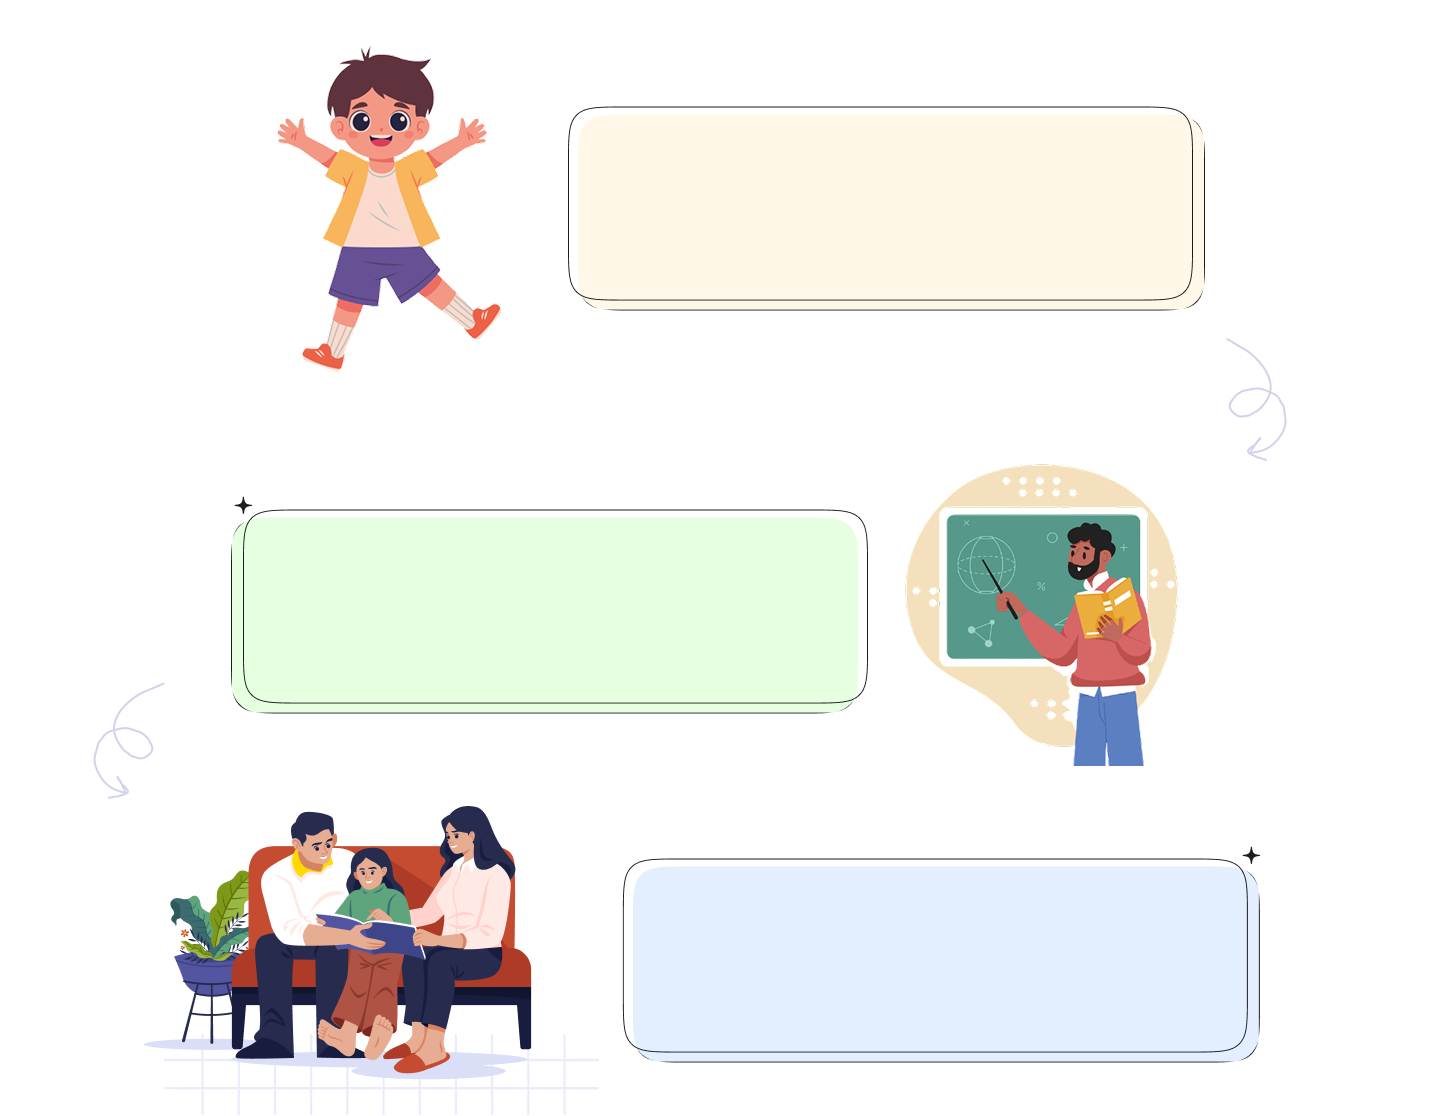
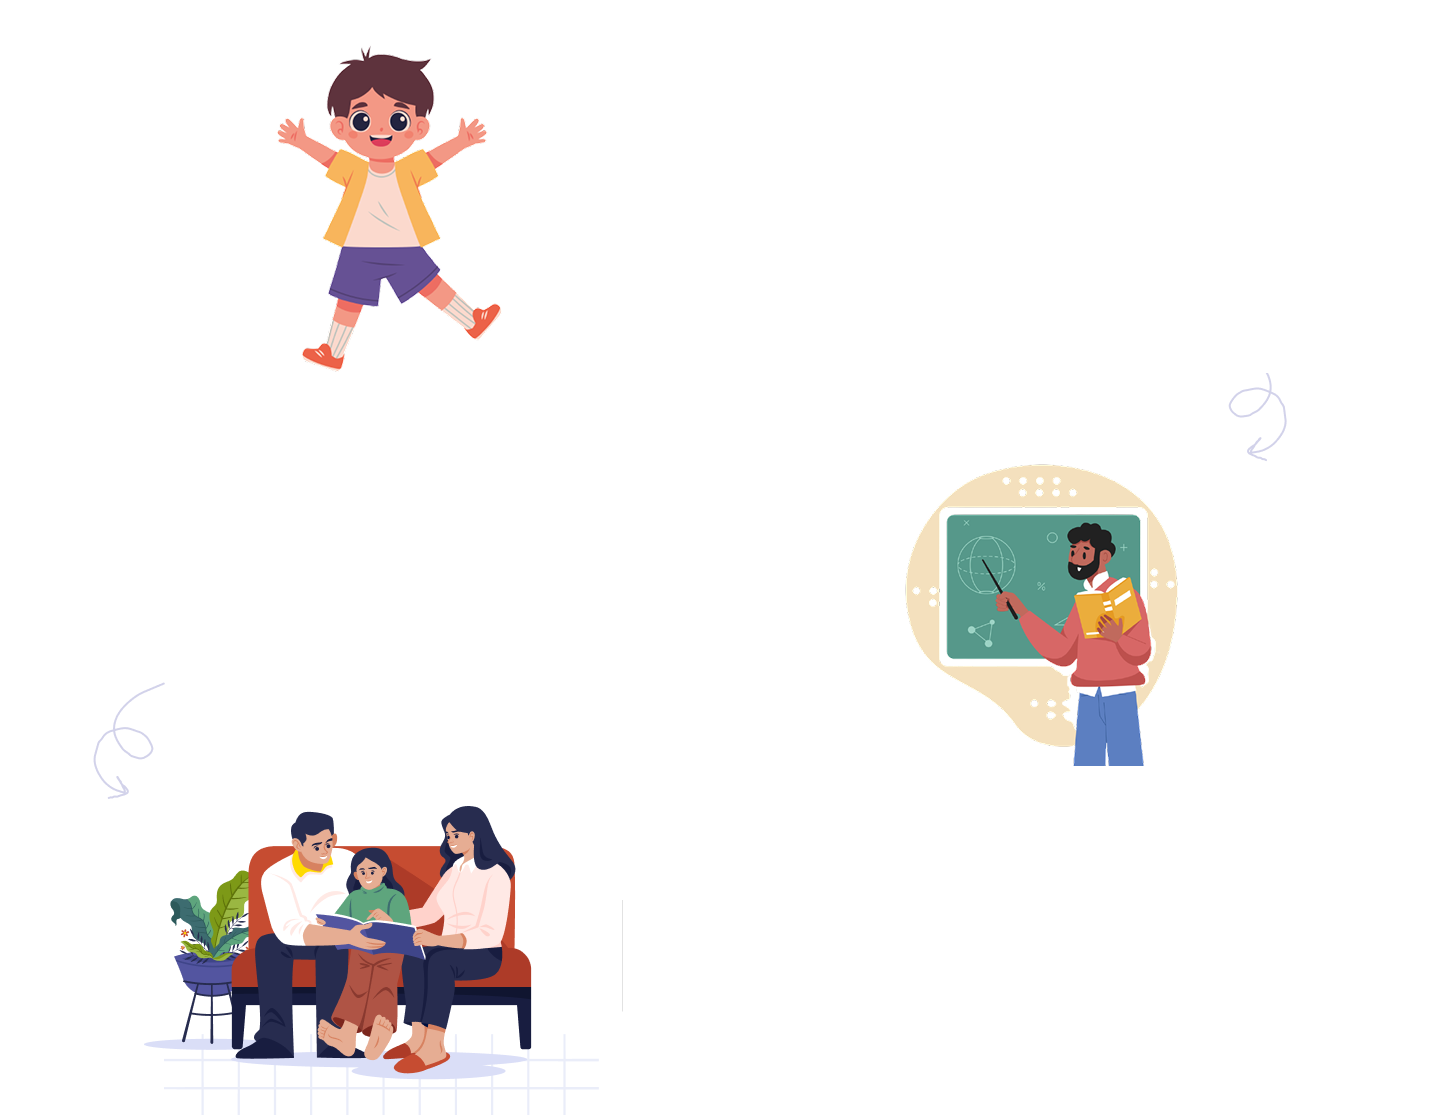
Vision section

Changed region(s): [[0.4375, 0.7616, 0.875, 0.9749], [0.1562, 0.457, 0.5938, 0.6398]]

diff --git a/src/components/about/AboutVisionSection.tsx b/src/components/about/AboutVisionSection.tsx
@@ -1,68 +1,122 @@
 import Image from 'next/image';
-import cloud from '../../assets/about/clouds (very light color).png';
-import swirl from '../../assets/about/spiral-arrow.svg';
+import cloud from '@/assets/about/clouds (very light color).png';
+import chat1 from '@/assets/about/chat1.png';
+import chat2 from '@/assets/about/chat2.png';
+import chat3 from '@/assets/about/chat3.png';
+import sparkle from '@/assets/about/sparkle.svg';
 
 export default function AboutVisionSection() {
   return (
-    <section className="relative py-20 px-4 bg-white overflow-hidden">
-      {/* Background clouds */}
-      <div className="absolute left-0 top-0 z-0 opacity-20">
-        <Image src={cloud} alt="Clouds" width={200} height={120} />
+    <section className="relative py-10 px-0 bg-white overflow-visible mb-30">
+      {/* Background clouds - full cover */}
+      <div className="absolute inset-0 z-0  ">
+        <Image
+          src={cloud}
+          alt="Clouds"
+          width={1920}
+          height={1080}
+          className="w-[110vw] h-full -translate-x-[5vw] !max-w-none"
+        />
       </div>
-      <div className="absolute right-0 top-0 z-0 opacity-20">
-        <Image src={cloud} alt="Clouds" width={200} height={120} />
-      </div>
-      {/* Swirl */}
-      <div className="absolute left-8 bottom-8 z-0 opacity-30">
-        <Image src={swirl} alt="Swirl" width={60} height={60} />
-      </div>
-      {/* Heading */}
-      <h2 className="text-[48px] font-bold text-[#1A1A1A] text-center mb-12 leading-[48px] tracking-wide">Our Vision</h2>
-      {/* Vision cards */}
-      <div className="max-w-7xl mx-auto space-y-12">
-        {/* First card */}
-        <div className="w-[1152px] mx-auto rounded-tl-xl rounded-tr-[200px] rounded-bl-xl rounded-br-[200px] shadow-[6px_6px_0px_0px_rgba(212,227,255,1.00)] bg-white flex justify-center items-center gap-6 p-8">
-          <div className="w-80 h-96 bg-gray-200 rounded-lg flex items-center justify-center">
-            <span className="text-4xl">🧒</span>
-          </div>
-          <div className="w-[637px] h-52 relative">
-            <div className="w-[627px] h-48 left-[10px] top-[8px] absolute bg-yellow-50 rounded-[28.28px] border-r border-b border-zinc-900" />
-            <div className="w-[625px] h-48 left-0 top-0 absolute rounded-[28.28px] border border-zinc-900" />
-            <div className="w-[572px] left-[26px] top-[31px] absolute flex flex-col justify-center items-center gap-1.5">
-              <div className="text-center text-[#1A1A1A] text-[30px] font-normal leading-[40px]">
-                Every child has access to high-quality, engaging learning—no matter their background.
+      {/* Content with higher z-index */}
+      <div className="relative z-10">
+        {/* Heading */}
+        <h2 className="text-[#1A1A1A] text-center text-[44px] font-graphie font-semibold font-weight-700 leading-[44px] tracking-[0.48px] mb-12">
+          Our Vision
+        </h2>
+
+        {/* Flexbox layout with 3 rows */}
+        <div className="max-w-7xl mx-auto space-y-12 relative">
+
+          {/* First row - Picture then Text */}
+          <div className="flex items-center justify-center gap-4">
+            <div className="w-80 h-80 flex items-center justify-center">
+              <Image
+                src={chat1}
+                alt="Chat 1"
+                width={290}
+                height={290}
+                className="object-contain"
+              />
+            </div>
+            <div className="w-[581px] h-[180px] flex-shrink-0 relative">
+              <div className="w-[572px] h-[173px] left-[9px] top-[7px] absolute bg-[#FFF7E7] rounded-[26px] border-r-[0.25px] border-b-[0.25px] border-zinc-900" />
+              <div className="w-[570px] h-[173px] left-0 top-0 absolute rounded-[26px] border border-zinc-900" />
+              <div className="w-[521px] left-[24px] top-[29px] absolute flex flex-col justify-center items-center gap-1.5">
+                <div className="text-center text-[#1A1A1A] text-[30px] font-graphie font-normal font-weight-400 leading-[42px]">
+                  Every child has access to high-quality, engaging learning—no
+                  matter their background.
+                </div>
               </div>
+              {/* Sparkle - top right for picture-text format */}
+              <div className="absolute -top-3 -right-3">
+                <Image src={sparkle} alt="Sparkle" width={26} height={26} />
+              </div>
+              {/* Spiral arrow - right of first text container */}
+                <div className="absolute -right-16 top-1/2 transform -translate-y-1/2 translate-y-[150px]">
+                  <svg width="89" height="107" viewBox="0 0 89 107" fill="none" xmlns="http://www.w3.org/2000/svg" style={{ transform: 'scaleX(-1) rotate(-30deg)' }}>
+                    <path d="M86.5004 2.76347C73 5.26367 73.5004 5.2632 65.5001 6.76391C57.4999 8.26461 48.5234 12.8589 42.0487 17.544C33.1281 23.9991 26.2776 33.8949 28.3662 45.3539C29.2029 49.9442 30.7042 53.5045 32.5474 57.6845C33.9156 60.7874 37.269 63.0716 38.9288 65.895C39.3446 66.6024 41.5027 67.9313 42.2804 68.3369C43.4318 68.9374 44.5832 69.538 45.7347 70.1385C47.9369 71.2872 48.9995 71.2443 51.402 71.2443C56.1731 69.8926 59.3885 68.812 61.4995 64.7647C62.8935 62.0919 59.7247 52.5974 57.9525 50.5069C57.1289 49.5353 56.3506 48.4992 55.4995 47.508C54.5693 46.4248 53.6573 45.5943 52.4023 44.9397C48.0603 42.6751 43.9522 39.0763 39.0155 38.1888C35.9412 37.6362 32.021 37.7231 28.9098 38.0058C26.8754 38.1905 25.2425 37.9785 23.175 38.4579C21.438 38.8608 20.5239 39.1446 18.8983 40.056C17.4664 40.8587 16.0935 42.0819 14.9906 43.3112C13.6067 44.854 11.1583 45.64 10.1294 47.508C8.24808 50.9234 6.51714 54.4337 4.71388 57.8911C0.682458 65.6205 2.91685 74.9144 6.02486 82.5233C8.5834 88.787 13.8598 95.1408 19.96 98.3224C20.5474 98.6288 25.2066 101.518 25.6609 101.039C26.8721 99.7621 24.896 95.6748 24.7422 93.9816C24.6176 92.61 24.0192 91.588 24.011 90.2598C24.0038 89.0853 22.6602 87.8601 22.6036 86.7506C22.5905 86.4922 21.7247 84.1052 21.5828 84.4709C21.4761 84.746 22.4772 87.1004 22.6301 87.5867C22.9325 88.5483 23.5609 89.4858 23.6598 90.5391C23.701 90.9786 24.9753 93.5067 25.2568 93.6847C26.3378 94.3683 28.0699 97.5422 28.5552 98.6427C30.6239 103.334 23.823 102.987 21.1216 103.091C19.9398 103.136 18.8528 103.557 17.6685 103.603C16.6207 103.643 15.8026 103.059 14.7238 102.992C13.5701 102.92 12.7408 103.808 11.4199 103.119C10.752 102.77 9.58383 103.179 8.85112 103.166" stroke="#D2D2EA" strokeWidth="3" strokeLinecap="round"/>
+                  </svg>
+                </div>
             </div>
           </div>
-        </div>
 
-        {/* Second card */}
-        <div className="w-[1152px] mx-auto rounded-[200px] shadow-[6px_6px_0px_0px_rgba(255,212,212,1.00)] bg-white flex justify-center items-center gap-8 p-8">
-          <div className="w-[637px] h-52 relative">
-            <div className="w-[627px] h-48 left-[10px] top-[8px] absolute bg-green-100 rounded-[28.28px] border-r border-b border-zinc-900" />
-            <div className="w-[625px] h-48 left-0 top-0 absolute rounded-[28.28px] border border-zinc-900" />
-            <div className="w-[567px] left-[41px] top-[53px] absolute flex flex-col justify-center items-center gap-1.5">
-              <div className="text-center text-[#1A1A1A] text-[30px] font-normal leading-[40px]">
-                Teachers have the tools to make lessons come alive effortlessly.
+          {/* Second row - Text then Picture */}
+          <div className="flex items-center justify-center gap-4">
+            <div className="w-[581px] h-[180px] flex-shrink-0 relative">
+              <div className="w-[572px] h-[173px] left-[9px] top-[7px] absolute bg-[#E6FFE0] rounded-[26px] border-r-[0.25px] border-b-[0.25px] border-zinc-900" />
+              <div className="w-[570px] h-[173px] left-0 top-0 absolute rounded-[26px] border border-zinc-900" />
+              <div className="w-[516px] left-[38px] top-[49px] absolute flex flex-col justify-center items-center gap-1.5">
+                <div className="text-center text-[#1A1A1A] text-[30px] font-graphie font-normal font-weight-400 leading-[42px]">
+                  Teachers have the tools to make lessons come alive
+                  effortlessly.
+                </div>
+              </div>
+              {/* Sparkle - top left for text-picture format */}
+              <div className="absolute -top-3 -left-3">
+                <Image src={sparkle} alt="Sparkle" width={26} height={26} />
               </div>
             </div>
+            <div className="w-[390px] h-[390px] flex-shrink-0 aspect-square flex items-center justify-center relative">
+              {/* Spiral arrow - left of second row picture */}
+                <div className="absolute -left-190 top-1/2 transform -translate-y-1/2 translate-y-[70px]">
+                  <svg xmlns="http://www.w3.org/2000/svg" width="164.931" height="110.567" viewBox="0 0 72 117" fill="none" >
+                    <path d="M70.7786 1.59456C58.095 6.852 58.5844 6.7473 51.0722 9.88152C43.56 13.0157 35.7374 19.379 30.3806 25.31C23.0002 33.4816 18.3612 44.5873 22.7909 55.3599C24.5654 59.6752 26.7753 62.8447 29.4487 66.5491C31.4333 69.299 35.1889 70.8346 37.4004 73.2503C37.9544 73.8556 40.342 74.7058 41.1871 74.9405C42.4384 75.2881 43.6896 75.6356 44.9409 75.9831C47.3341 76.6479 48.3644 76.3846 50.7143 75.8842C55.0991 73.5683 58.019 71.8417 59.2406 67.4435C60.0473 64.5389 54.9703 55.9127 52.8016 54.2372C51.7936 53.4584 50.8167 52.6072 49.7777 51.815C48.6423 50.9493 47.5773 50.327 46.2134 49.9482C41.4951 48.6376 36.7274 45.9735 31.7141 46.1338C28.5922 46.2336 24.7761 47.1352 21.7919 48.0597C19.8407 48.6642 18.1994 48.7969 16.2772 49.6965C14.6622 50.4523 13.8272 50.9204 12.4271 52.1503C11.1939 53.2337 10.1058 54.716 9.28321 56.1481C8.25093 57.9453 6.02004 59.224 5.40274 61.2654C4.27413 64.9978 3.31234 68.7916 2.26879 72.5488C-0.0642056 80.9484 4.05705 89.573 8.68179 96.3676C12.4889 101.961 18.9731 107.076 25.6021 108.918C26.2405 109.095 31.3993 110.95 31.7438 110.387C32.6625 108.886 29.8784 105.3 29.3753 103.676C28.9678 102.36 28.1696 101.485 27.8849 100.188C27.6332 99.0408 26.0639 98.1223 25.7775 97.0489C25.7107 96.7989 24.3668 94.6447 24.3042 95.0318C24.2571 95.3232 25.7266 97.4174 25.9775 97.8611C26.4735 98.7387 27.2835 99.5248 27.5996 100.534C27.7314 100.956 29.5044 103.163 29.8168 103.278C31.0165 103.722 33.3717 106.465 34.0755 107.44C37.0761 111.598 30.3521 112.675 27.7316 113.34C26.5851 113.63 25.6096 114.268 24.4608 114.559C23.4443 114.817 22.5226 114.417 21.4534 114.575C20.31 114.745 19.6838 115.786 18.2484 115.387C17.5226 115.186 16.4652 115.829 15.7459 115.969" stroke="#D2D2EA" strokeWidth="2" strokeLinecap="round"/>
+                  </svg>
+                </div>
+              <Image
+                src={chat2}
+                alt="Chat 2"
+                width={390}
+                height={390}
+                className="object-contain"
+              />
+            </div>
           </div>
-          <div className="w-80 h-80 bg-gray-200 rounded-lg flex items-center justify-center">
-            <span className="text-4xl">🧑🏫</span>
-          </div>
-        </div>
 
-        {/* Third card */}
-        <div className="w-[1152px] mx-auto rounded-[200px] shadow-[6px_6px_0px_0px_rgba(255,212,212,1.00)] bg-white flex justify-center items-center gap-6 p-8">
-          <div className="w-80 h-80 bg-gray-200 rounded-lg flex items-center justify-center">
-            <span className="text-4xl">👨👩👧</span>
-          </div>
-          <div className="w-[637px] h-52 relative">
-            <div className="w-[627px] h-48 left-[10px] top-[8px] absolute bg-sky-100 rounded-[28.28px] border-r border-b border-zinc-900" />
-            <div className="w-[625px] h-48 left-0 top-0 absolute rounded-[28.28px] border border-zinc-900" />
-            <div className="w-[572px] left-[26px] top-[31px] absolute flex flex-col justify-center items-center gap-1.5">
-              <div className="text-center text-[#1A1A1A] text-[30px] font-normal leading-[40px]">
-                Parents no longer have to fight the &quot;homework battle&quot; because kids are excited to learn.
+          {/* Third row - Picture then Text */}
+          <div className="flex items-center justify-center gap-4">
+            <div className="w-[454.858px] h-[309px] flex-shrink-0 flex items-center justify-center">
+              <Image
+                src={chat3}
+                alt="Chat 3"
+                width={454.858}
+                height={309}
+                className="object-contain"
+              />
+            </div>
+            <div className="w-[581px] h-[180px] flex-shrink-0 relative">
+              <div className="w-[572px] h-[173px] left-[9px] top-[7px] absolute bg-[#E3EEFF] rounded-[26px] border-r-[0.25px] border-b-[0.25px] border-zinc-900" />
+              <div className="w-[570px] h-[173px] left-0 top-0 absolute rounded-[26px] border border-zinc-900" />
+              <div className="w-[521px] left-[24px] top-[29px] absolute flex flex-col justify-center items-center gap-1.5">
+                <div className="text-center text-[#1A1A1A] text-[30px] font-graphie font-normal font-weight-400 leading-[42px]">
+                  Parents no longer have to fight the &quot;homework
+                  battle&quot; because kids are excited to learn.
+                </div>
+              </div>
+              {/* Sparkle - top right for picture-text format */}
+              <div className="absolute -top-3 -right-3">
+                <Image src={sparkle} alt="Sparkle" width={26} height={26} />
               </div>
             </div>
           </div>

diff --git a/src/components/about/AboutMissionSection.tsx b/src/components/about/AboutMissionSection.tsx
@@ -7,13 +7,13 @@ export default function AboutMissionSection() {
   return (
     <section className="relative flex items-center justify-center overflow-visible w-full h-[545px]">
       {/* Background SVG */}
-      <div className="absolute inset-0 z-0">
+      <div className="absolute inset-0 z-0 flex items-center justify-center">
         <Image
           src={ourMissionBg}
           alt="Our Mission Background"
           width={1920}
           height={405}
-          className="w-full scale-y-110"
+          className="w-full scale-y-110 lg:scale-y-105 xl:scale-y-100 2xl:scale-y-80"
         />
       </div>
       {/* Decorative Images */}
@@ -22,16 +22,16 @@ export default function AboutMissionSection() {
         <Image src={greyFlower} alt="Grey Flower" width={56} height={56} />
       </div>
       {/* Content */}
-      <div className="relative z-20 flex flex-col items-center w-full text-center" style={{ marginTop: '-40px' }}>
+      <div className="relative z-20 flex flex-col items-center w-full text-center">
         <h2 className="text-[#1A1A1A] text-center font-sans text-[48px] font-bold leading-[44px] tracking-[0.48px] mb-8">
           Our Mission
         </h2>
         <div className="w-[936px] h-[98px] text-center mx-auto">
-          <p className="text-[#1A1A1A] text-center font-graphie text-[20px] font-sans leading-[24px] tracking-[-0.5px] mb-0" >
+          <p className="text-[#1A1A1A] text-center font-graphie text-[20px]  leading-[24px] tracking-[-0.5px] mb-0" >
             To make learning so immersive, exciting, and effective that children
             no longer resist it—they crave it.
           </p>
-          <p className="text-[#1A1A1A] text-center font-graphie text-[20px] font-sans leading-[24px] tracking-[-0.5px]">
+          <p className="text-[#1A1A1A] text-center font-graphie text-[20px]  leading-[24px] tracking-[-0.5px]">
             To create an inclusive, accessible, and engaging education platform
             that meets every child where <br></br> they are and helps them go further than
             they ever imagined.

diff --git a/src/assets/index.ts b/src/assets/index.ts
@@ -64,3 +64,7 @@ export { default as aboutUsBg } from './about/about-us-bg.svg';
 export { default as aboutUsPic } from './about/about-us-pic.png';
 export { default as playUnderline } from './about/play-underline.svg';
 export { default as curiosityUnderline } from './about/curiosity-underline.svg';
+export { default as chat1 } from './about/chat1.png';
+export { default as chat2 } from "./about/chat2.png";
+export { default as chat3 } from "./about/chat3.png";
+export { default as cloud } from './about/clouds (very light color).png';
